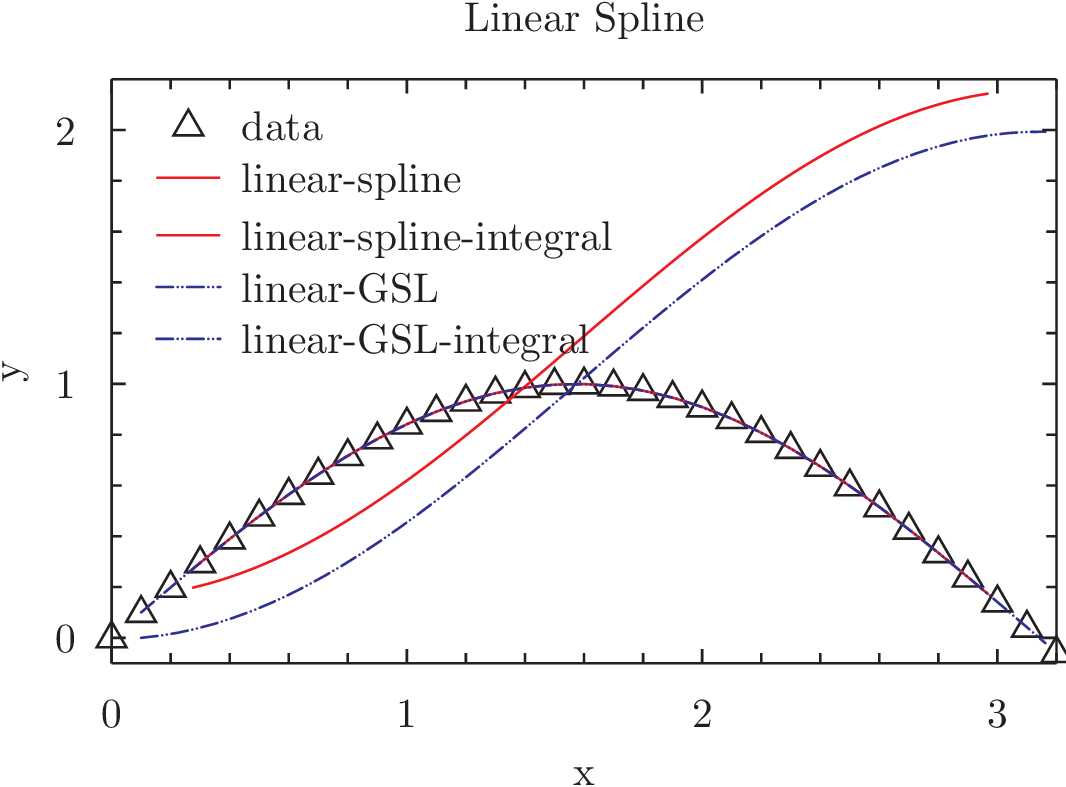
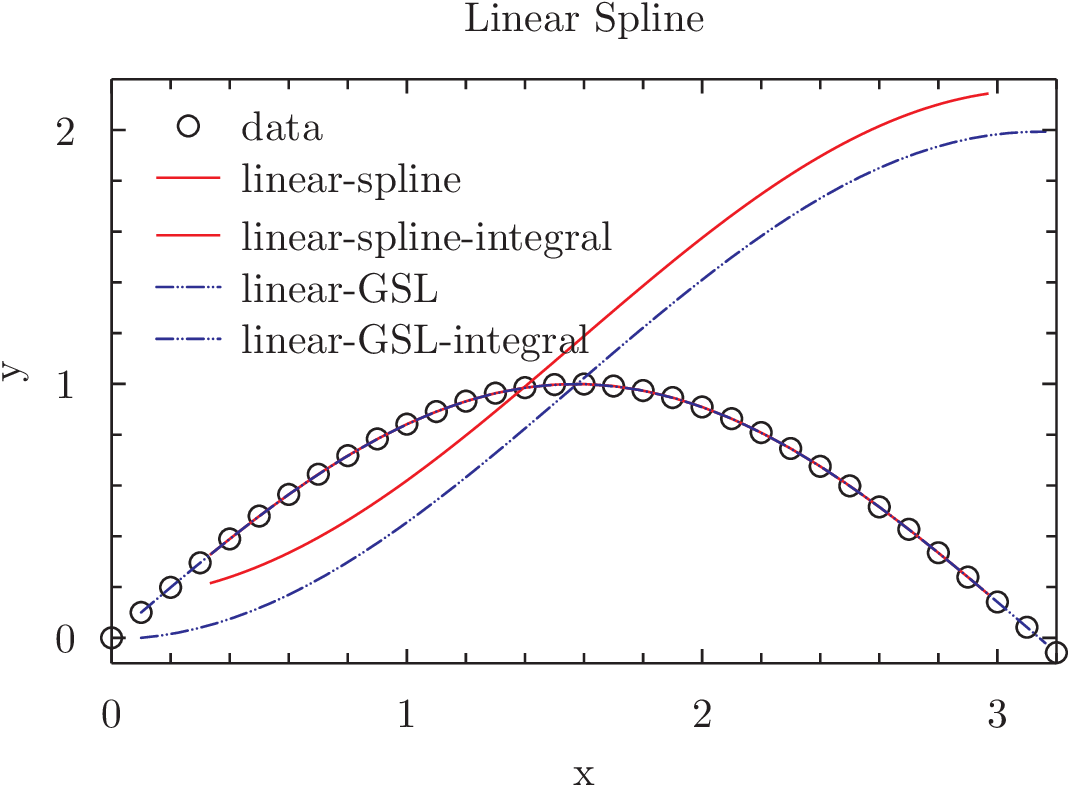
Initial commit

diff --git a/homework/Interpolation1/main.c b/homework/Interpolation1/main.c
@@ -200,9 +200,9 @@ int main(){
 
 
 	//Linspace
-	int N=95; double z[N];
+	int N=93; double z[N];
 	for(i=0;i<N+1;i++){
-	z[i-1]=(double)(8+i)/33;
+	z[i-1]=(double)(10+i)/33;
 	}
 
 	// lin data
